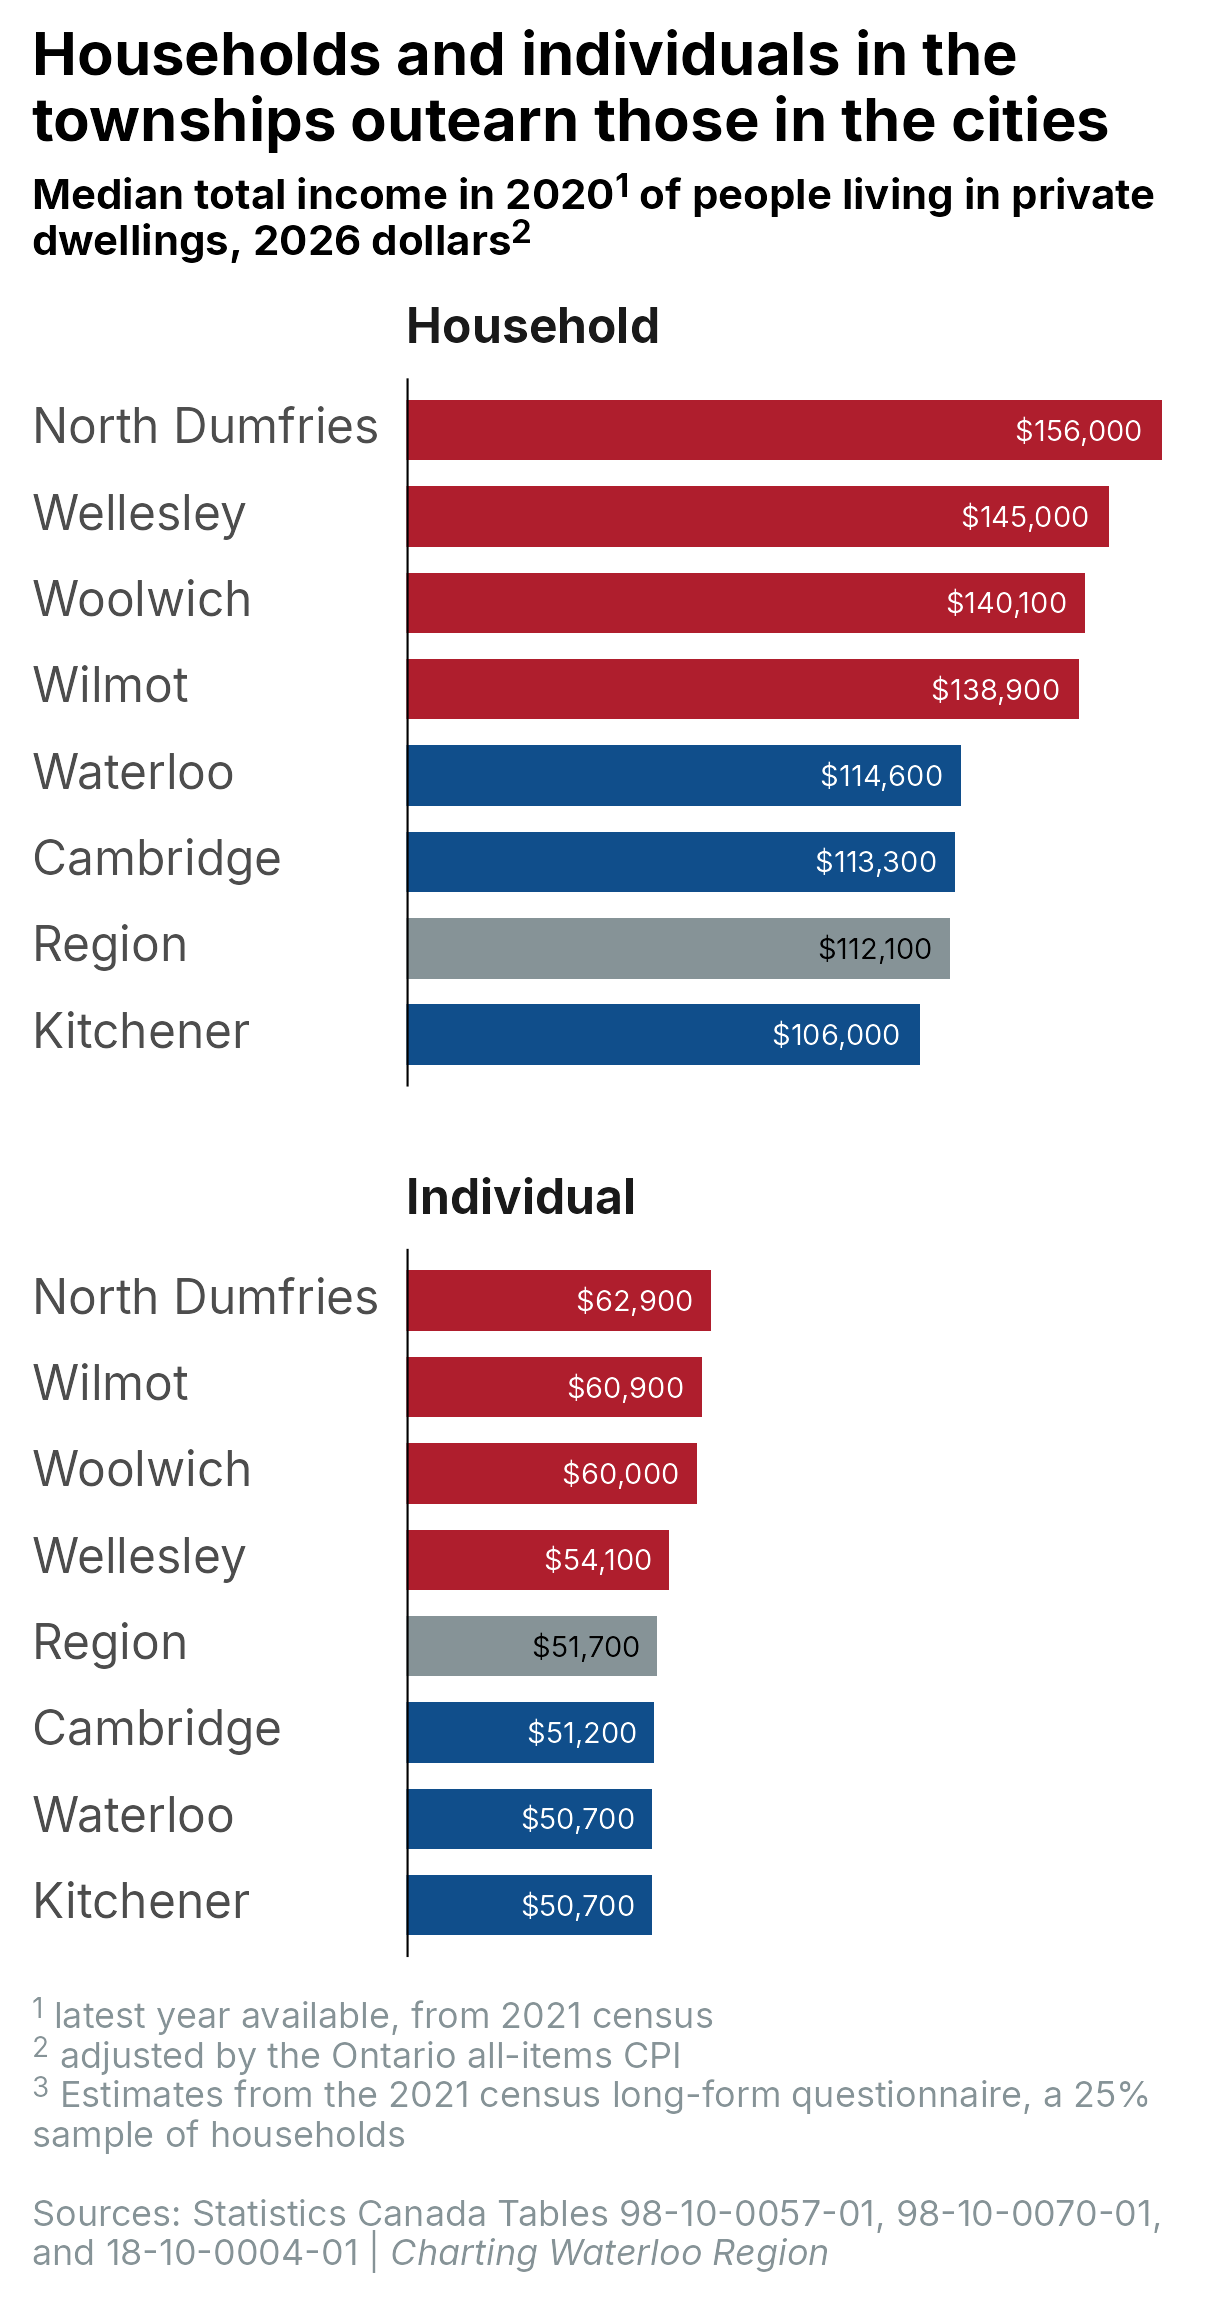
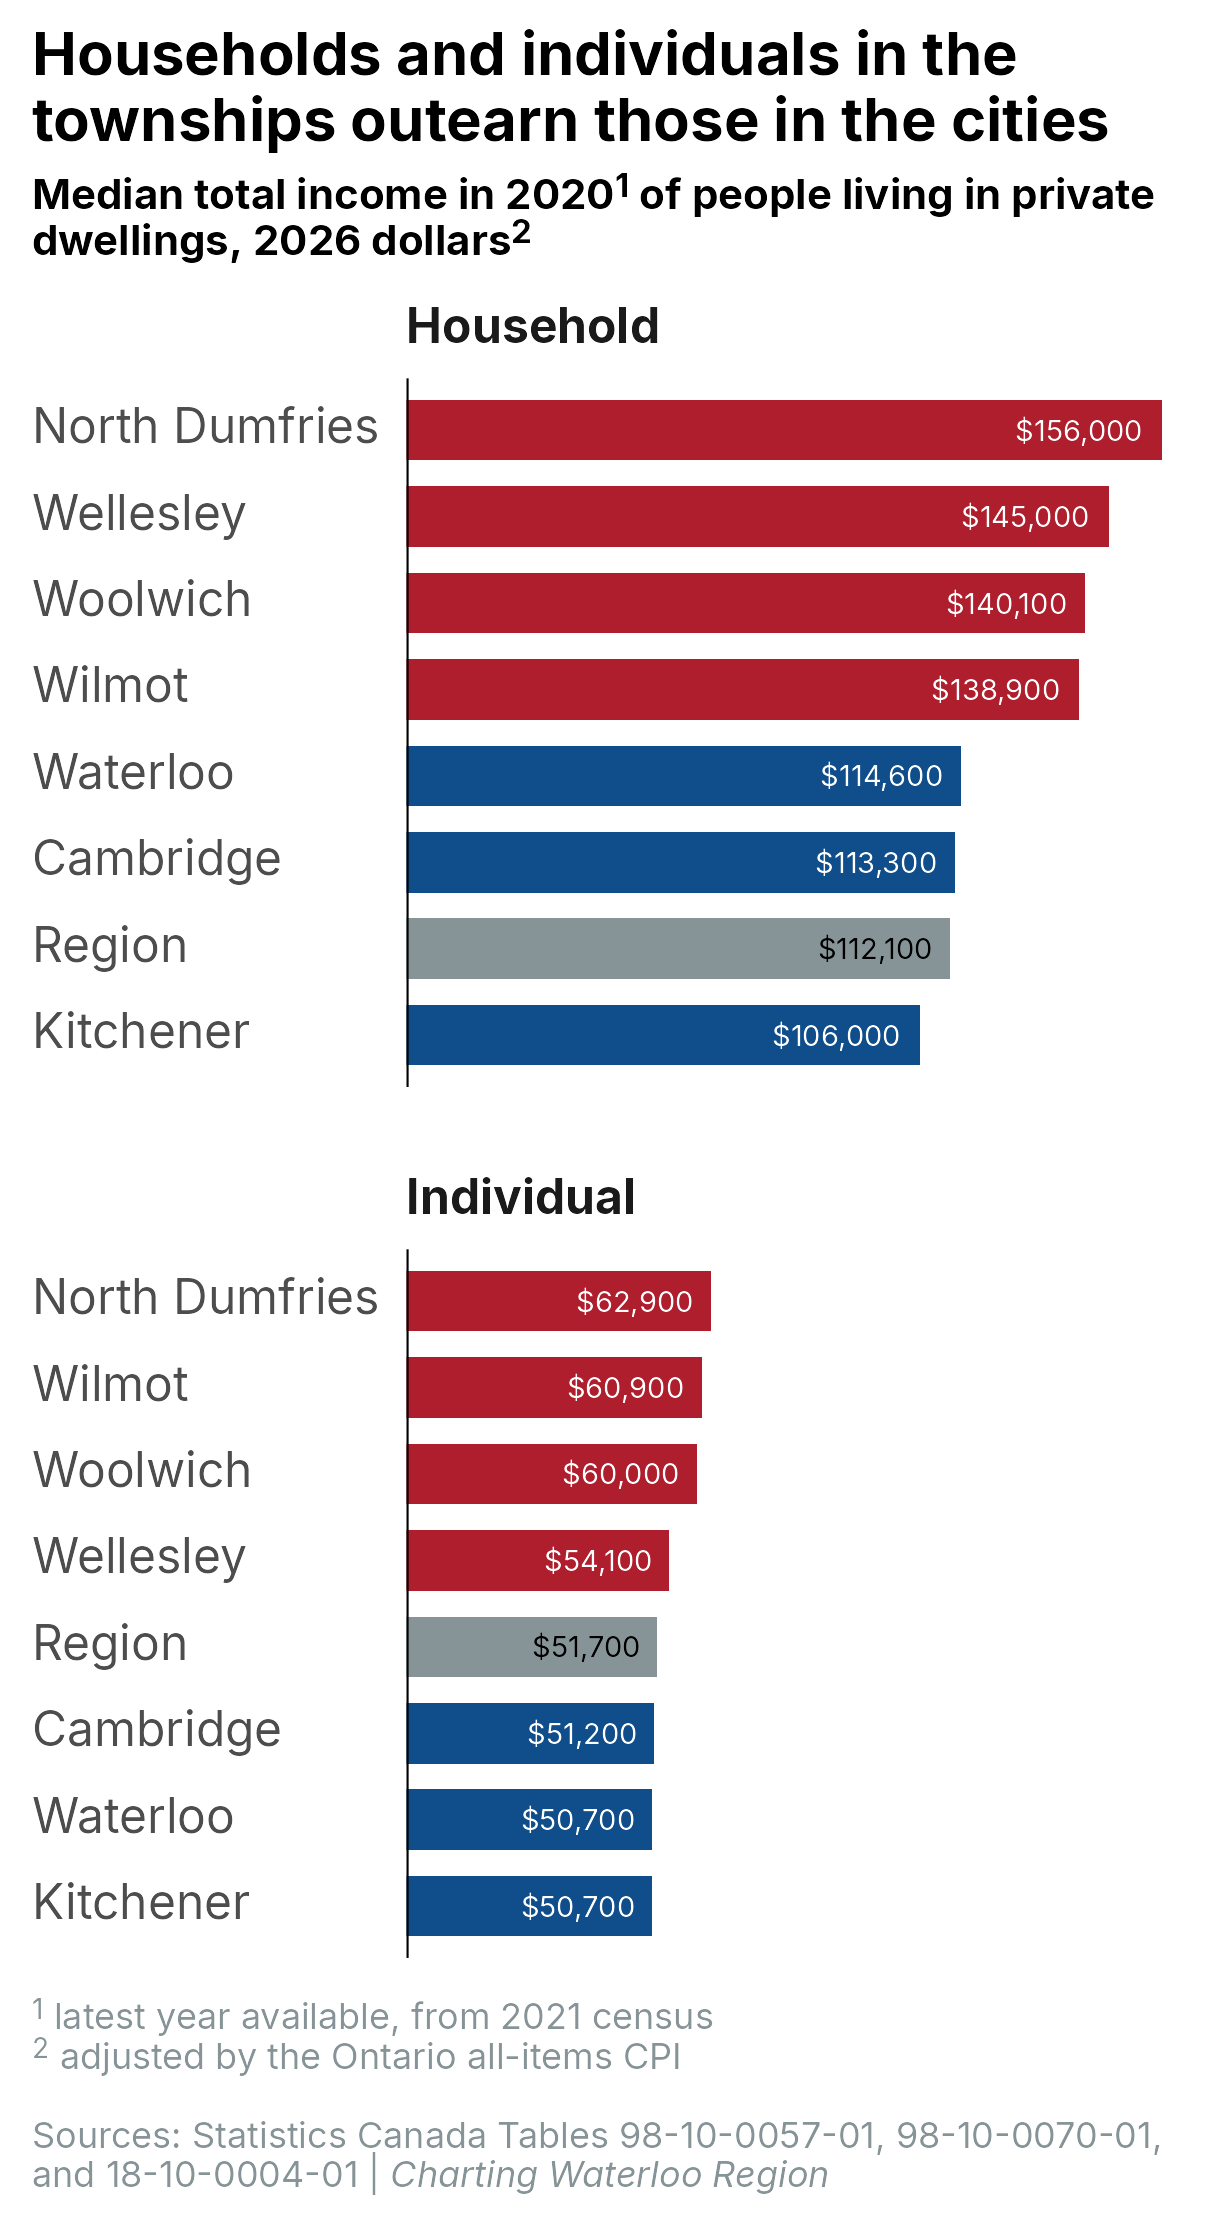
Record sampling for the welcome post; median census income is not sampled
The welcome README's Data sources table gains its Sample column and a
Sampling note, and tables.csv its sample field. Filling them in showed
the previous commit was wrong to call census income long-form: since
2016 it comes from tax records linked to every respondent, and medians
are published for 100% of the population; only averages and aggregates
are 25% sample data (2021 Income Reference Guide). So the sampling note
comes back off the welcome income chart, whose images return to their
published state, and style rule 9a, review-post and CLAUDE.md now say to
check the statistic's own label rather than the topic.

diff --git a/posts/welcome/README.md b/posts/welcome/README.md
@@ -4,15 +4,15 @@ Post: https://chartingwaterlooregion.ca/posts/welcome/
 
 ## Data sources
 
-| File in `data-raw/` | What it is | Source (link) | Licence | Accessed |
-|---|---|---|---|---|
-| `table_17100155.csv` | Table 17-10-0155-01, population estimates on 1 July by census subdivision, 2021 boundaries | [Statistics Canada](https://www150.statcan.gc.ca/t1/tbl1/en/tv.action?pid=1710015501) | [Statistics Canada Open Licence](https://www.statcan.gc.ca/en/reference/licence) | 2026-09-14 |
-| `csd_boundaries/` | 2021 census subdivision cartographic boundary file (`lcsd000b21a_e`), the municipal polygons | [Statistics Canada](https://www12.statcan.gc.ca/census-recensement/2021/geo/sip-pis/boundary-limites/index2021-eng.cfm?year=21) | [Statistics Canada Open Licence](https://www.statcan.gc.ca/en/reference/licence) | 2026-09-14 |
-| `table_98100057.csv` | Table 98-10-0057-01, household income statistics by household type, 2021 census | [Statistics Canada](https://www150.statcan.gc.ca/t1/tbl1/en/tv.action?pid=9810005701) | [Statistics Canada Open Licence](https://www.statcan.gc.ca/en/reference/licence) | 2026-09-15 |
-| `table_98100070.csv` | Table 98-10-0070-01, income statistics for detailed income sources and taxes, 2021 census | [Statistics Canada](https://www150.statcan.gc.ca/t1/tbl1/en/tv.action?pid=9810007001) | [Statistics Canada Open Licence](https://www.statcan.gc.ca/en/reference/licence) | 2026-09-15 |
-| `table_18100004.csv` | Table 18-10-0004-01, consumer price index, monthly, not seasonally adjusted | [Statistics Canada](https://www150.statcan.gc.ca/t1/tbl1/en/tv.action?pid=1810000401) | [Statistics Canada Open Licence](https://www.statcan.gc.ca/en/reference/licence) | 2026-09-15 |
-| `table_98100041.csv` | Table 98-10-0041-01, structural type of dwelling and household size, 2021 census | [Statistics Canada](https://www150.statcan.gc.ca/t1/tbl1/en/tv.action?pid=9810004101) | [Statistics Canada Open Licence](https://www.statcan.gc.ca/en/reference/licence) | 2026-09-15 |
-| `table_98100180_coords.csv` | Table 98-10-0180-01, mother tongue in detail, 2021 census - thirty-two cells fetched by coordinate rather than the whole table | [Statistics Canada](https://www150.statcan.gc.ca/t1/tbl1/en/tv.action?pid=9810018001) | [Statistics Canada Open Licence](https://www.statcan.gc.ca/en/reference/licence) | 2026-09-15 |
+| File in `data-raw/` | What it is | Source (link) | Licence | Sample | Accessed |
+|---|---|---|---|---|---|
+| `table_17100155.csv` | Table 17-10-0155-01, population estimates on 1 July by census subdivision, 2021 boundaries | [Statistics Canada](https://www150.statcan.gc.ca/t1/tbl1/en/tv.action?pid=1710015501) | [Statistics Canada Open Licence](https://www.statcan.gc.ca/en/reference/licence) | None (population estimates) | 2026-09-14 |
+| `csd_boundaries/` | 2021 census subdivision cartographic boundary file (`lcsd000b21a_e`), the municipal polygons | [Statistics Canada](https://www12.statcan.gc.ca/census-recensement/2021/geo/sip-pis/boundary-limites/index2021-eng.cfm?year=21) | [Statistics Canada Open Licence](https://www.statcan.gc.ca/en/reference/licence) | None (boundaries) | 2026-09-14 |
+| `table_98100057.csv` | Table 98-10-0057-01, household income statistics by household type, 2021 census | [Statistics Canada](https://www150.statcan.gc.ca/t1/tbl1/en/tv.action?pid=9810005701) | [Statistics Canada Open Licence](https://www.statcan.gc.ca/en/reference/licence) | None (medians are 100% data, from tax records) | 2026-09-15 |
+| `table_98100070.csv` | Table 98-10-0070-01, income statistics for detailed income sources and taxes, 2021 census | [Statistics Canada](https://www150.statcan.gc.ca/t1/tbl1/en/tv.action?pid=9810007001) | [Statistics Canada Open Licence](https://www.statcan.gc.ca/en/reference/licence) | None (medians are 100% data, from tax records) | 2026-09-15 |
+| `table_18100004.csv` | Table 18-10-0004-01, consumer price index, monthly, not seasonally adjusted | [Statistics Canada](https://www150.statcan.gc.ca/t1/tbl1/en/tv.action?pid=1810000401) | [Statistics Canada Open Licence](https://www.statcan.gc.ca/en/reference/licence) | None (price index) | 2026-09-15 |
+| `table_98100041.csv` | Table 98-10-0041-01, structural type of dwelling and household size, 2021 census | [Statistics Canada](https://www150.statcan.gc.ca/t1/tbl1/en/tv.action?pid=9810004101) | [Statistics Canada Open Licence](https://www.statcan.gc.ca/en/reference/licence) | None (census short form, full count) | 2026-09-15 |
+| `table_98100180_coords.csv` | Table 98-10-0180-01, mother tongue in detail, 2021 census - thirty-two cells fetched by coordinate rather than the whole table | [Statistics Canada](https://www150.statcan.gc.ca/t1/tbl1/en/tv.action?pid=9810018001) | [Statistics Canada Open Licence](https://www.statcan.gc.ca/en/reference/licence) | None (census short form, full count) | 2026-09-15 |
 
 Files that cannot be re-downloaded by script, or are over 25 MB, are attached to a GitHub Release
 (tag shown in the table) and fetched by `R/01_get_data.R`. Nothing in this post needs one: every
@@ -50,6 +50,11 @@ Then `quarto render posts/welcome` from a terminal.
   all-items consumer price index: the average of the twelve months of 2020 against the average of
   the 2026 months published so far. The CPI is not published for Kitchener-Cambridge-Waterloo, so
   the province is the closest published basket.
+- Sampling: none of the figures are from a sample. The census medians are published for 100% of the
+  population: since 2016, census income comes from tax and benefit records linked to every
+  respondent, and only averages and aggregates are restricted to the 25% long-form sample (2021
+  Income Reference Guide). Household size and mother tongue are short-form questions, asked of
+  everyone. The population estimates are Statistics Canada's demographic estimates, not a survey.
 
 ## Data dictionary
 

diff --git a/.claude/skills/cwr-charts/SKILL.md b/.claude/skills/cwr-charts/SKILL.md
@@ -210,12 +210,18 @@ in `ggvertbar` or `gghorbar`; if a reader needs to compare shares, bars are what
    and keep counts out of labels, axes and alt text; they may still be summed in code as a
    denominator. **If Greg asks for counts from a long-form table, say so before building it** - he
    asked for this check "so I don't make this mistake again". Long-form: commuting, place of work,
-   labour, income, education, housing costs and condition, immigration and citizenship,
-   ethnocultural and religious origin, Indigenous identity, language of work, mobility. Short form
-   (a full count, counts are fine): population, age, gender, marital status, households and
-   families, dwelling type, and the language questions other than language of work. Statistics
-   Canada tables say which in their notes ("25% sample data" or "long-form"). The commuting post's
-   last three charts were rebuilt from counts to shares for this reason (2026-09-18).
+   labour, education, housing costs and condition, immigration and citizenship, ethnocultural and
+   religious origin, Indigenous identity, language of work, mobility. Short form (a full count,
+   counts are fine): population, age, gender, marital status, households and families, dwelling
+   type, and the language questions other than language of work. **Income is split, so check the
+   statistic, not the topic:** since 2016 census income comes from tax and benefit records linked to
+   every respondent, and **medians are published for 100% of the population**, while averages and
+   aggregates come only from the 25% sample (the 2021 Income Reference Guide says so). The welcome
+   post's median incomes are therefore a full count and need no sampling note - a note put on them
+   in error was taken off again the same day. Tables mark it in the member names of a statistics
+   dimension ("... - 100% data", "... - 25% sample data"); where a statistic is unlabelled, look it up
+   in the census reference guide for the topic rather than guessing. The commuting post's last three
+   charts were rebuilt from counts to shares for this reason (2026-09-18).
 9b. **A chart drawn from sample data says so in a note, and reports the uncertainty where it can.**
    This covers every sample, not only the census long form: the Labour Force Survey, the Canadian
    Community Health Survey, the General Social Survey, any poll. Greg wants the reader told every

diff --git a/CLAUDE.md b/CLAUDE.md
@@ -49,8 +49,8 @@ R user, new to blogging and to git. Explain git and publishing steps in plain wo
 - Chart text calls Waterloo Region "Region": use `cwr_region` for every axis, legend, direct
   label, tooltip and note (cleaning scripts type "Region"). Line labels are positioned with
   `cwr_line_labels()`, never hand-typed coordinates. Hover charts use `cwr_interactive()`.
-- Census: long-form variables (commuting, labour, income, education, housing, immigration and
-  more) are a 25% sample, so charts show shares or rates, never counts - `cwr-charts` rule 9a. If
+- Census: long-form variables (commuting, labour, education, housing, immigration and more, plus
+  average and aggregate income; median income is 100% data) are a 25% sample, so charts show shares or rates, never counts - `cwr-charts` rule 9a. If
   Greg asks for counts from one, flag it before building. Any chart from sample data (census long
   form, surveys) carries the stock note from `cwr_caption(sample = )`, with confidence intervals
   drawn or stated when the source publishes them - rule 9b. The sample is also recorded in the

diff --git a/.claude/skills/review-post/SKILL.md b/.claude/skills/review-post/SKILL.md
@@ -33,8 +33,9 @@ For every `ggplot` chunk:
   or rewrite as a finding (style rule 1); and no stock template text is left unwritten: the opening
   paragraph comment, "First finding as a plain-language heading", "Second finding", and the empty
   `tbl-first` chunk all have to be replaced or removed before a post goes live.
-- No chart shows counts from long-form census data (style rule 9a): commuting, labour, income,
-  education, housing, immigration and the other long-form topics are a 25% sample, so labels, axes
+- No chart shows counts from long-form census data (style rule 9a): commuting, labour,
+  education, housing, immigration, average or aggregate income and the other long-form topics are
+  a 25% sample (median income is 100% data), so labels, axes
   and alt text show shares or rates. Check every census table the post reads, and flag any count
   that comes from one.
 - Every chart drawn from sample data (census long form, LFS, CCHS, any survey) has a note saying so
